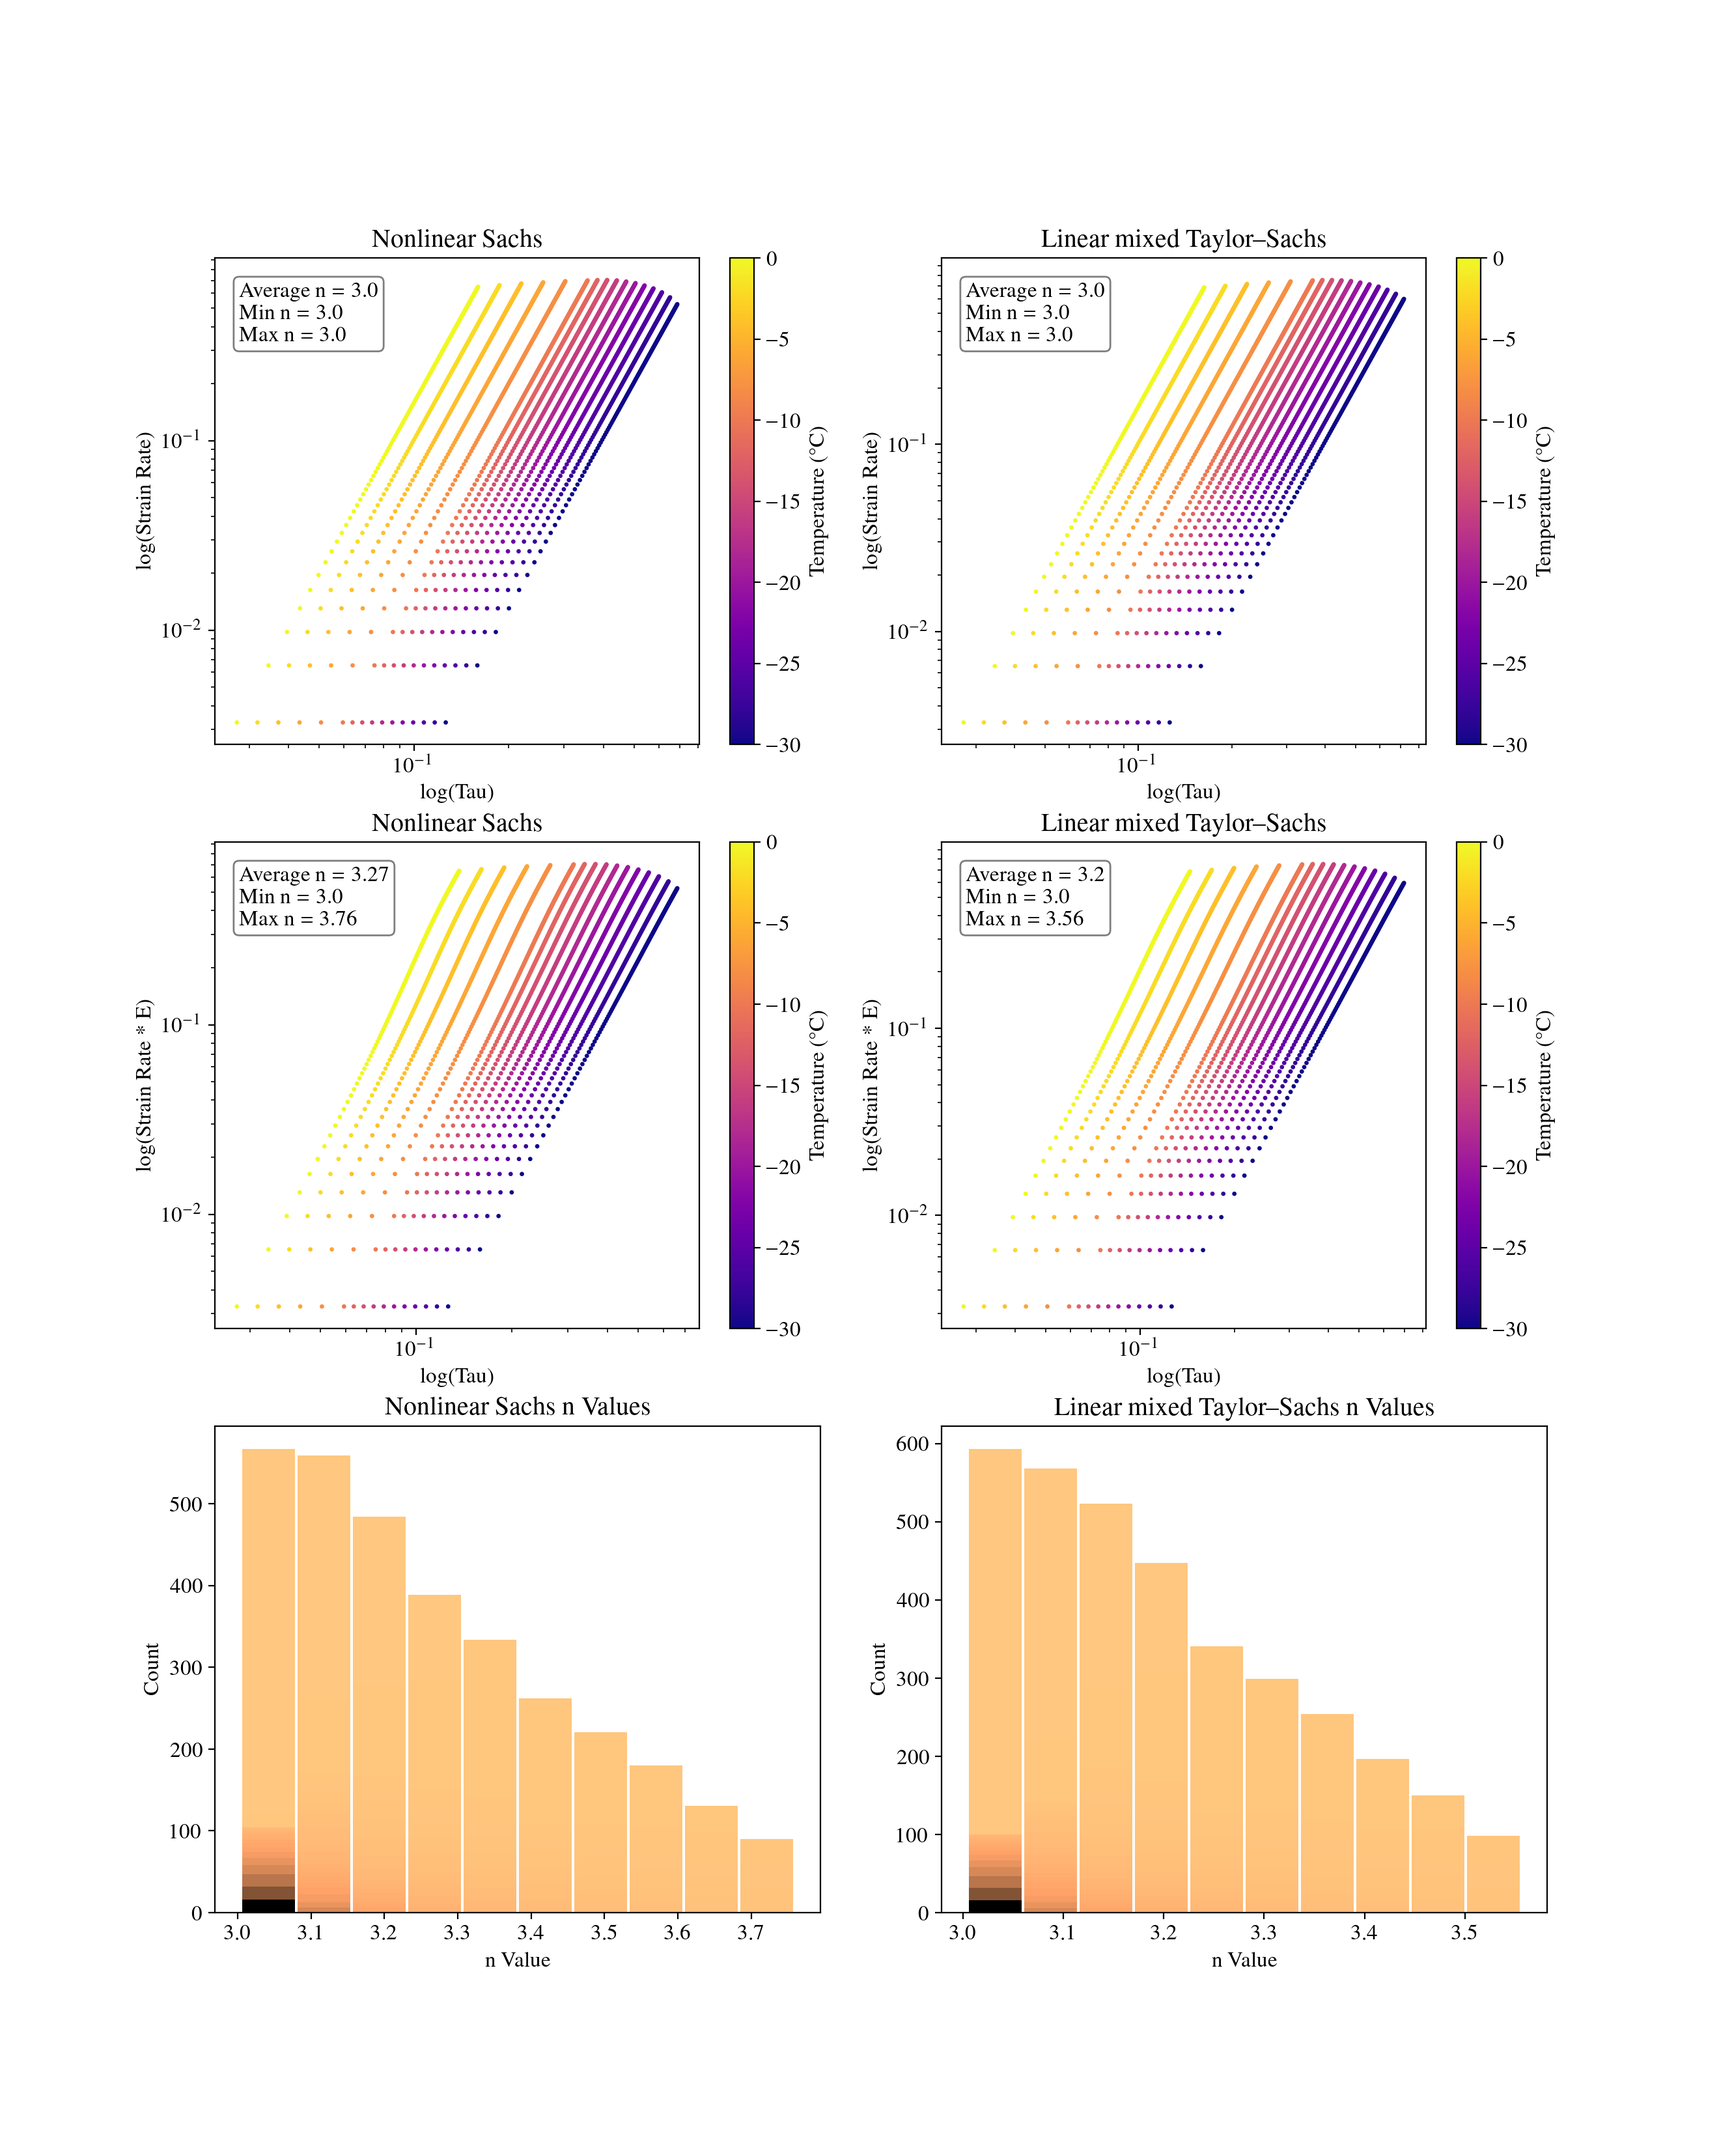
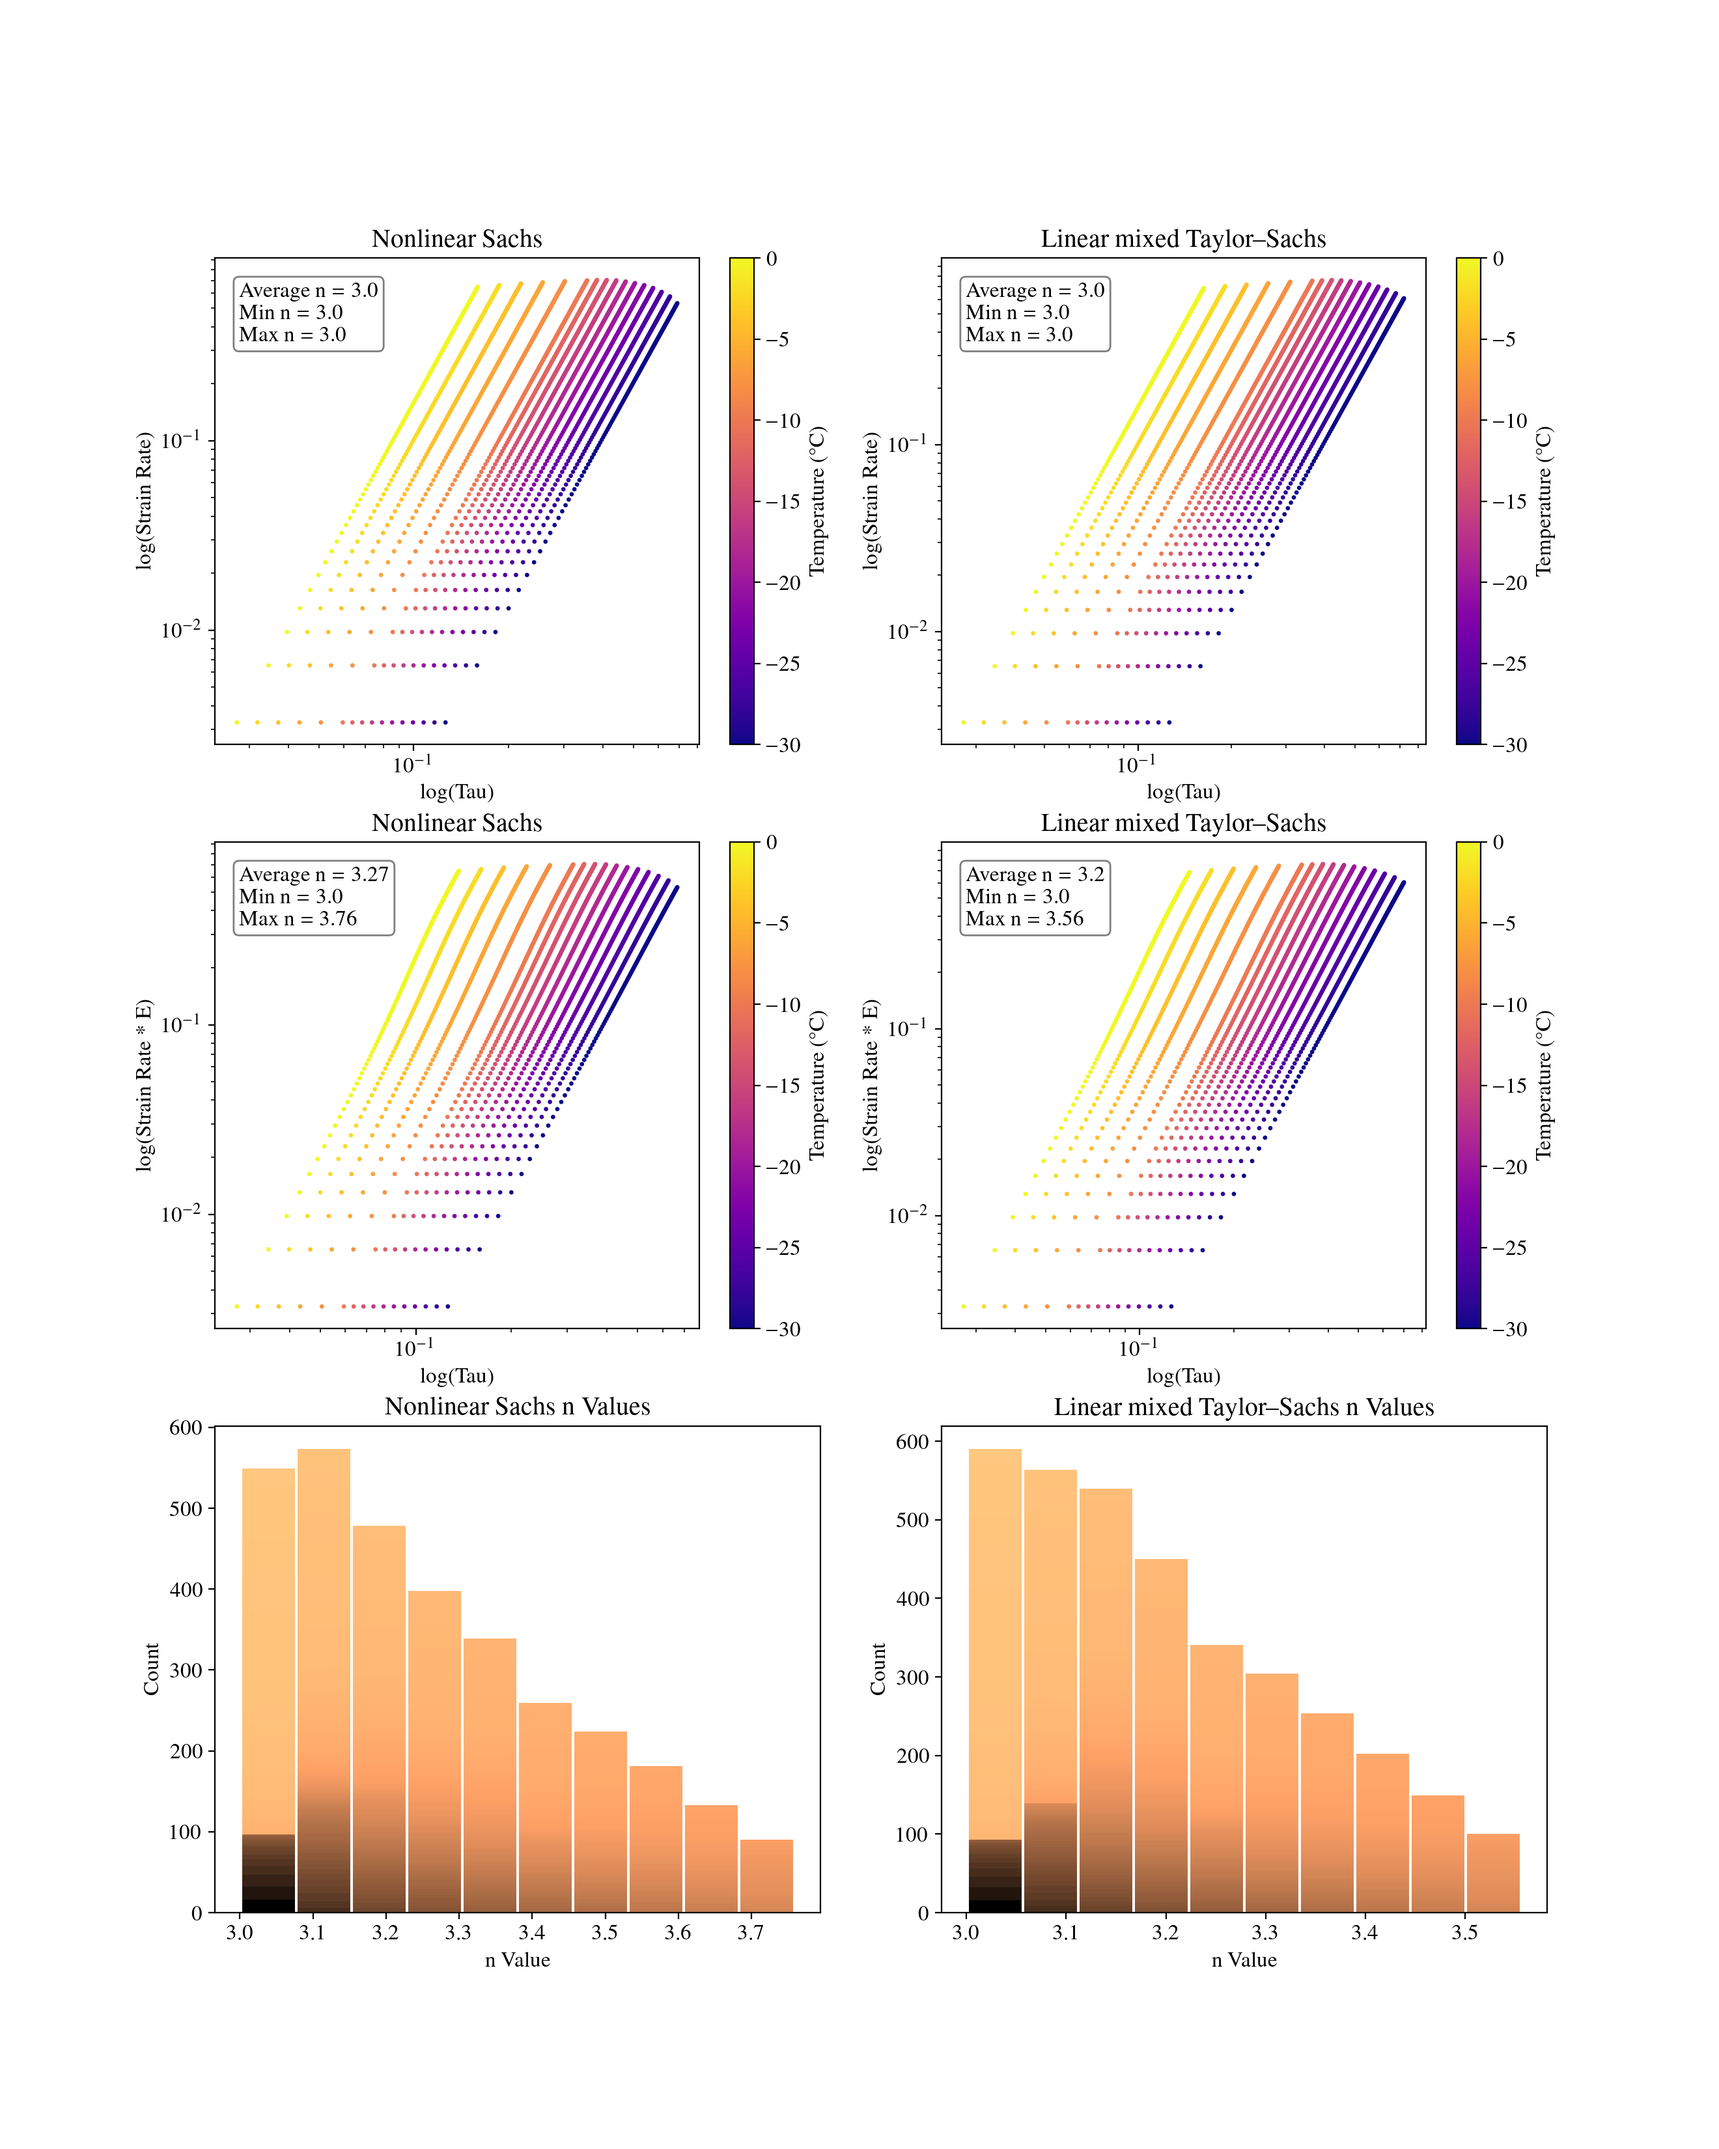
colobars and strain rate hist added

diff --git a/L20/rh-comp.py b/L20/rh-comp.py
@@ -1,4 +1,5 @@
 
+from matplotlib.cm import ScalarMappable
 import matplotlib.pyplot as plt
 import matplotlib.colors as colors
 import matplotlib as mp
@@ -26,17 +27,19 @@ def plot_all_enhancement(ex, t, cutoff = True, balanced_average = True):
     '''
 
     dpi, scale = 200, 3.3
-    fig = plt.figure(figsize=(4*scale,5*scale))
-    gs = gridspec.GridSpec(3,2, height_ratios=[.75, .75, .75], width_ratios=[1,1])
+    fig = plt.figure(figsize=(4*scale,6.5*scale))
+    gs = gridspec.GridSpec(4,2, height_ratios=[1,1,.75,.75], width_ratios=[1,1])
     #gs.update(left=-0.03, right=1-0.06/3, top=0.97, bottom=0.20, wspace=0.015*18, hspace=0.35)
 
 
-    ax_Elin    = plt.subplot(gs[0, 0])
-    ax_Enlin   = plt.subplot(gs[0, 1])
-    ax_Elin_E    = plt.subplot(gs[1, 0])
-    ax_Enlin_E   = plt.subplot(gs[1, 1])
-    ax_Elin_n    = plt.subplot(gs[2, 0])
-    ax_Enlin_n   = plt.subplot(gs[2, 1])
+    ax_Elin           = plt.subplot(gs[0, 0])
+    ax_Enlin          = plt.subplot(gs[0, 1])
+    ax_Elin_E         = plt.subplot(gs[1, 0])
+    ax_Enlin_E        = plt.subplot(gs[1, 1])
+    ax_Elin_n_temp    = plt.subplot(gs[2, 0])
+    ax_Enlin_n_temp   = plt.subplot(gs[2, 1])
+    ax_Elin_n_rate    = plt.subplot(gs[3, 0])
+    ax_Enlin_n_rate   = plt.subplot(gs[3, 1])
     
     current_slopes = {}
 
@@ -54,8 +57,11 @@ def plot_all_enhancement(ex, t, cutoff = True, balanced_average = True):
                      cutoff = cutoff, balanced_average = balanced_average)
 
 
-    n_hist(fig, ax_Elin_n, current_slopes[ax_Elin_E],"Nonlinear Sachs")
-    n_hist(fig, ax_Enlin_n, current_slopes[ax_Enlin_E], "Linear mixed Taylor--Sachs")
+    n_hist(fig, ax_Elin_n_temp, current_slopes[ax_Elin_E],"Nonlinear Sachs")
+    n_hist(fig, ax_Enlin_n_temp, current_slopes[ax_Enlin_E], "Linear mixed Taylor--Sachs")
+
+    n_hist(fig, ax_Elin_n_rate, current_slopes[ax_Elin_E],"Nonlinear Sachs", which_ns = 'avg_st_rate')
+    n_hist(fig, ax_Enlin_n_rate, current_slopes[ax_Enlin_E], "Linear mixed Taylor--Sachs", which_ns = 'avg_st_rate')
 
     os.makedirs("output", exist_ok=True)
     fout = f'output/cache.png'
@@ -90,7 +96,6 @@ def plot_enhancement(ax, fig, Ei, ex, t, slopes, title, use_Eij = True, cutoff =
 
 
 def add_slope(ax, slope_dict):
-    print(slope_dict)
     ax.text(.05,.95, "Average n = " + str(round(np.mean(slope_dict.ns), 2)) + 
             "\n Min n = " + str(round(np.min(slope_dict.ns), 2)) +
             "\n Max n = " + str(round(np.max(slope_dict.ns), 2)), 
@@ -100,13 +105,8 @@ def add_slope(ax, slope_dict):
 
 
 def n_hist(fig, ax, ns, Etype, which_ns = 'temp'):
-    CMAP = CMAP_TEMP
-    if which_ns == 'avg_st_rate':
-        CMAP = CMAP_STRAIN_RATE
     datas = []
     temps = []
-
-
 
     for t in ns[which_ns].unique():
         temps.append(t)
@@ -115,11 +115,20 @@ def n_hist(fig, ax, ns, Etype, which_ns = 'temp'):
     min_ns = np.min(temps)
     max_ns = np.max(temps)
 
-    n, bins, patches = ax.hist(datas, histtype='bar', rwidth=0.95, stacked = True)
-    print(n, bins)
+    CMAP = CMAP_TEMP
+    norm = colors.Normalize(min_ns, max_ns)
+    c_label = "Temperature (°C)"
+    if which_ns == 'avg_st_rate':
+        CMAP = CMAP_STRAIN_RATE
+        norm = colors.LogNorm(min_ns, max_ns)
+        c_label = "log(Strain Rate x E)"
+
+
+    h, bins, patches = ax.hist(datas, histtype='bar', rwidth=0.95, stacked = True)
     for i, patch in enumerate(patches):
         for bar in patch:
-            bar.set_facecolor(CMAP(colors.Normalize(min_ns, max_ns)(temps[i])))
+            bar.set_facecolor(CMAP(norm(temps[i])))
+
     #ax.bar(n, bins, histtype='bar', rwidth=0.95, stacked = True)
     title = str(Etype) + " n Values"
     ax.set_title(title)
@@ -127,7 +136,9 @@ def n_hist(fig, ax, ns, Etype, which_ns = 'temp'):
     ax.set_ylabel("Count")
 
 
-    #fig.colorbar(ax, label = "Temperature (°C)")
+    colorbar_colors = ScalarMappable(norm)
+    colorbar_colors.set_cmap(CMAP)
+    fig.colorbar(colorbar_colors, ax=ax, label = c_label)
 
 
 def generate_plot(ax, Eij, ex, t, slopes, use_Eij = True, cutoff = True, balanced_average = True):
@@ -179,8 +190,19 @@ def generate_plot(ax, Eij, ex, t, slopes, use_Eij = True, cutoff = True, balance
     return data
 
 
+scope = []
 
-#e1 = Experiment("ss", "xz", temp = -30) 
+for x in CC:
+    for tem in TEMPS:
+        
+        if x != "ss" :
+            e1 = Experiment(x, "zz", temp = tem) 
+        else:
+            e1 = Experiment(x, "xz", temp = tem) 
 
-plot_all_enhancement(scope, strain_over_time, balanced_average="individual", cutoff=True)
+        print(f"GAMMA: {e1.Gamma}, LAMD: 0.15, TEMP: {e1.temp}, EXP: {e1.exptype}")
+        scope.append(e1)
+
+
+plot_all_enhancement(scope, strain_over_time, balanced_average="individual", cutoff=False)
 

diff --git a/L20/utils.py b/L20/utils.py
@@ -20,11 +20,9 @@ strain_over_time = 2e-1  # per year
 
 Eij_factor = 1
 
-Eij_cutoff_factor = 50000
+Eij_cutoff_factor = 10000
 
 
-
-scope = []
 
 EXP = ["uc", "ss", "cc", "ue"]
 CC = ["cc"]
@@ -35,18 +33,6 @@ UC = ["uc"]
 TEMPS = []
 for x in range(MIN_TEMP, MAX_TEMP+1, 2):
     TEMPS.append(x)
-
-
-for x in UE:
-    for tem in TEMPS:
-        
-        if x != "ss" :
-            e1 = Experiment(x, "zz", temp = tem) 
-        else:
-            e1 = Experiment(x, "xz", temp = tem) 
-
-        print(f"GAMMA: {e1.Gamma}, LAMD: 0.15, TEMP: {e1.temp}, EXP: {e1.exptype}")
-        scope.append(e1)
 
 
 
@@ -109,6 +95,8 @@ def get_balanced_average(x, y, temp = 0):
 def get_individual_slopes(x, y, temp):
     x = np.copy(x)
     y = np.copy(y)
+    if len(x) ==  0:
+        return None
     temp = temp[:len(x) - 1]
     slopes = []
     x_range = x[-1] - x[0]
